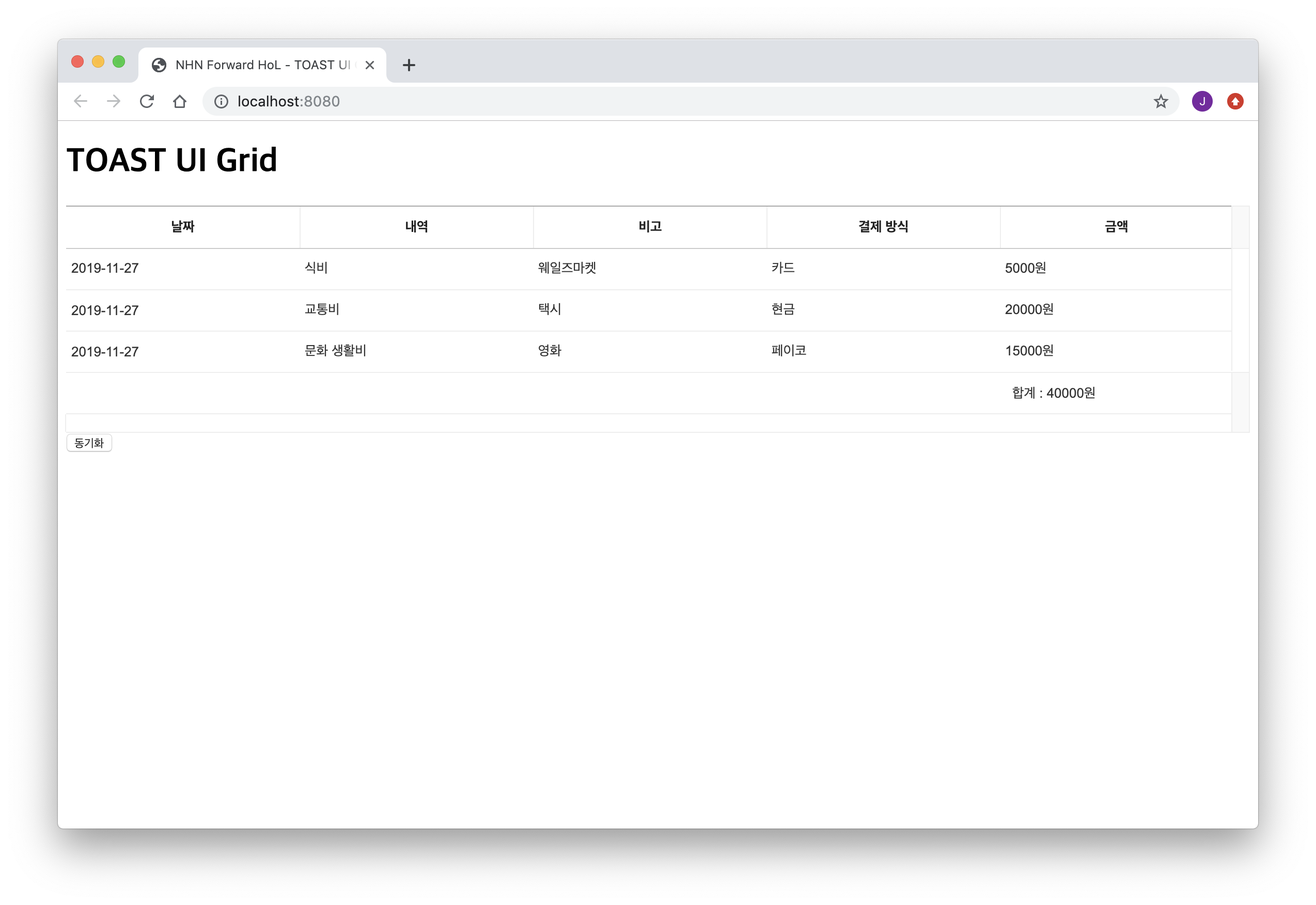
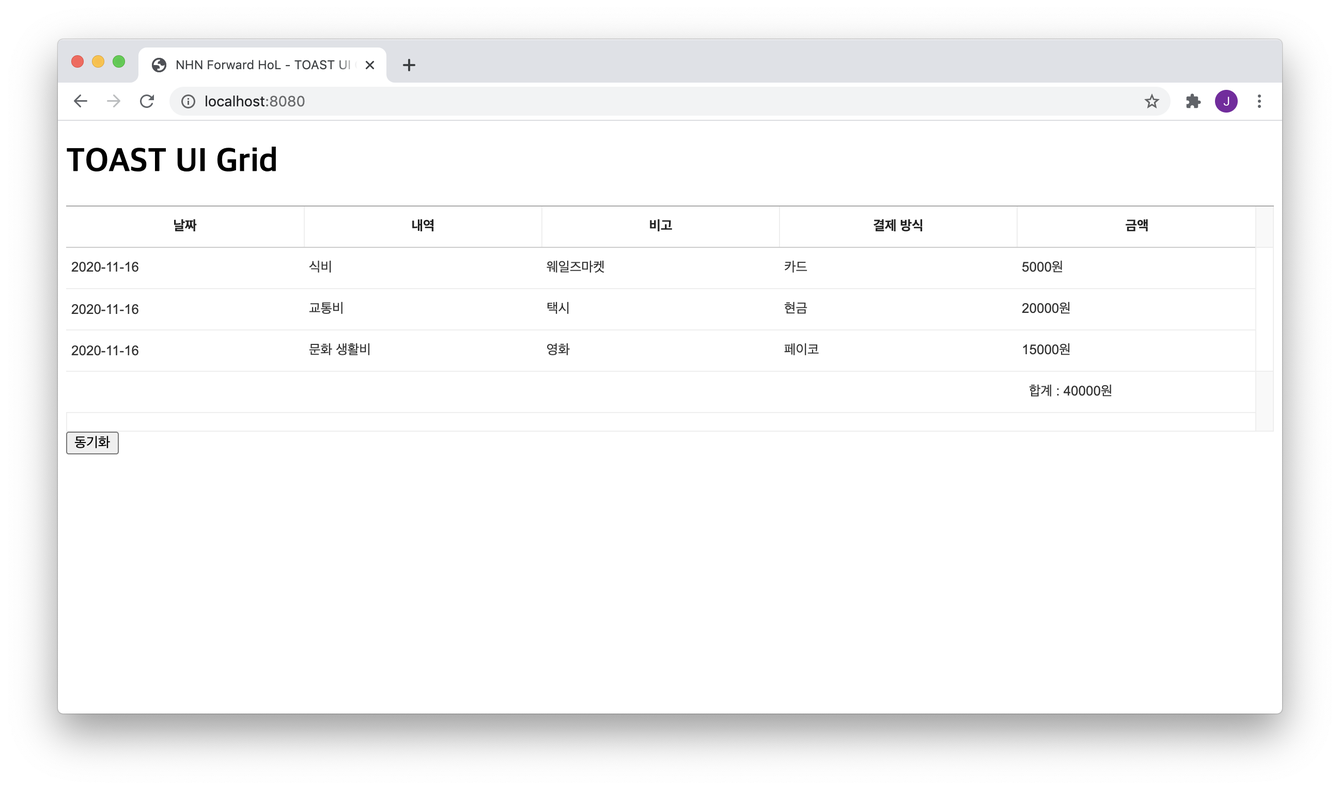
chore: update contents

diff --git a/searchindex.js b/searchindex.js
@@ -1,1 +1,1 @@
-Search.setIndex({docnames:["01","02","03","04","05","06","07","08","index","wrap-up"],envversion:{"sphinx.domains.c":1,"sphinx.domains.changeset":1,"sphinx.domains.cpp":1,"sphinx.domains.javascript":1,"sphinx.domains.math":2,"sphinx.domains.python":1,"sphinx.domains.rst":1,"sphinx.domains.std":1,sphinx:54},filenames:["01.rst","02.rst","03.rst","04.rst","05.rst","06.rst","07.rst","08.rst","index.rst","wrap-up.rst"],objects:{},objnames:{},objtypes:{},terms:{"15\ubd84":8,"3\uac1c\uc758":6,"\uac00\uacc4\ubd80":[0,7],"\uac00\uacc4\ubd80\ub97c":3,"\uac00\uacc4\ubd80\uc5d0":3,"\uac00\uacc4\ubd80\uc5d0\uc11c\ub294":4,"\uac00\uacc4\ubd80\uc758":3,"\uac00\uc7a5":4,"\uac00\uc838\uc624\ub294":[4,6],"\uac00\uc838\uc640":6,"\uac00\uc838\uc640\uc11c":7,"\uac00\uc9c0":[4,7],"\uac00\uc9c4":4,"\uac01":[4,5],"\uac04\ub2e8\ud55c":3,"\uac04\ub2e8\ud569\ub2c8\ub2e4":6,"\uac04\ub2e8\ud788":1,"\uac12":4,"\uac12\uc5d0":5,"\uac12\uc73c\ub85c":4,"\uac12\uc740":5,"\uac12\uc744":[3,4],"\uac12\uc758":4,"\uac19\uc2b5\ub2c8\ub2e4":4,"\uac19\uc740":4,"\uac19\uc774":[0,1,3,4,6,7],"\uac1c\ubc1c":[2,6],"\uac1c\ubc1c\uc790":6,"\uac1c\ubc1c\ud558\uae30":9,"\uac1c\ubc1c\ud55c":0,"\uac1c\uc694":8,"\uac1c\uc758":4,"\uac1d\uccb4":4,"\uac1d\uccb4\uc5d0":4,"\uac1d\uccb4\uc785\ub2c8\ub2e4":5,"\uac83\uacfc":[6,7],"\uac83\uc744":7,"\uacb0\uacfc\ub294":1,"\uacb0\uacfc\ub97c":[5,7],"\uacb0\uc815\ud558\ub294":5,"\uacb0\uc81c":[3,4],"\uacbd\uc6b0":[4,5,7],"\uacbd\ud5d8\ud574\ubcf4\uace0":0,"\uacfc":4,"\uacfc\uc815\uc744":6,"\uad00\ub9ac\ube44":4,"\uad50\ud1b5\ube44":4,"\uad6c\ud604\ud560":6,"\uad6c\ud604\ud574\ubd05\ub2c8\ub2e4":[6,7],"\uadf8\ub9ac\uace0":4,"\uadf8\ub9ac\ub4dc":[3,5,6,8],"\uadf8\ub9ac\ub4dc\uac00":2,"\uadf8\ub9ac\ub4dc\ub97c":[3,6],"\uadf8\ub9ac\ub4dc\uc5d0\uc11c":[4,6,7],"\uadf8\ub9ac\ub4dc\uc5d0\uc11c\ub294":[4,7],"\uadf8\ub9ac\ub4dc\uc758":[4,6],"\uae08\uc561":[3,4,5],"\uae30\ub2a5\ub4e4\uc744":3,"\uae30\ub2a5\ub9cc":4,"\uae30\ub2a5\uc744":4,"\uae30\ubcf8":[2,5,8],"\uae30\ubcf8\uac12\uc740":5,"\uae30\ubcf8\uc801\uc778":4,"\ub098\ud0c0\ub098\uc9c0":5,"\ub0a0\uc9dc":[3,4],"\ub0a0\uc9dc\ub97c":4,"\ub0a0\uc9dc\uc758":4,"\ub0b4\ubd80":4,"\ub0b4\ubd80\uc5d0":2,"\ub0b4\ubd80\uc5d0\uc11c\ub294":6,"\ub0b4\uc5d0\uc11c":[4,6],"\ub0b4\uc5ed":[3,4],"\ub0b4\uc6a9\uc744":5,"\ub0b4\uc7a5":4,"\ub118\uaca8\uc8fc\uc5b4\uc57c":2,"\ub124\ud2b8\uc6cc\ud06c":6,"\ub192\uc774\ub97c":5,"\ub294":6,"\ub2e4\ub974\uac8c":4,"\ub2e4\ub978":4,"\ub2e4\uc2dc":3,"\ub2e4\uc591\ud55c":[0,8],"\ub2e4\uc74c":[2,6,7],"\ub2e4\uc74c\uacfc":[4,6,7],"\ub2e8\uc704\ub97c":5,"\ub2f4\uc544":4,"\ub300\uc0c1":5,"\ub300\uc2dc\ubcf4\ub4dc":9,"\ub300\uc2e0":6,"\ub300\ud55c":[5,6],"\ub300\ud574":5,"\ub354":[2,5,6],"\ub370\uc774\ud130":[2,4,5,6],"\ub370\uc774\ud130\uac00":[4,7],"\ub370\uc774\ud130\uac12\uc774":7,"\ub370\uc774\ud130\ub294":4,"\ub370\uc774\ud130\ub97c":[0,3,4,6,7],"\ub370\uc774\ud130\ub9cc":6,"\ub370\uc774\ud130\uc5d0":6,"\ub370\uc774\ud130\uc758":5,"\ub3c4\uad6c":6,"\ub3c4\uc640\uc8fc\ub294":6,"\ub3cc\uc544\uc640":7,"\ub3d9\uae30\ud654":7,"\ub3d9\uc77c\ud558\uac8c":7,"\ub3d9\uc791":[6,7],"\ub3d9\uc791\uc740":7,"\ub3d9\uc791\uc744":[6,7],"\ub3d9\uc791\uc758":7,"\ub3d9\uc791\ud558\uc600\ub2e4\uba74":6,"\ub420":4,"\ub429\ub2c8\ub2e4":[4,6,7],"\ub450\uc5c8\uc2b5\ub2c8\ub2e4":1,"\ub4e4\uc5b4":4,"\ub4e4\uc5b4\uac00\ub294":4,"\ub4e4\uc5b4\uac08":3,"\ub4f1":5,"\ub54c":[3,4,5,7],"\ub54c\uc640":7,"\ub610\ud55c":4,"\ub744\uc6cc":4,"\ub77c\ub294":4,"\ub77c\uc774\ube0c\ub7ec\ub9ac\uc785\ub2c8\ub2e4":0,"\ub7a9\uc2a4\uc5d0\uc11c":0,"\ub808\ubca8":8,"\ub808\uc774\ube14\ub85c":4,"\ub808\uc774\uc544\uc6c3":8,"\ub808\uc774\uc544\uc6c3\uc5d0":5,"\ub808\uc774\uc544\uc6c3\uc744":3,"\ub808\uc774\uc5b4\ub97c":4,"\ub80c\ub354\ub9c1\ud560":5,"\ub85c":[3,4],"\ub85c\ub4dc\ud558\uba74":6,"\ub85c\uceec":6,"\ub85c\uceec\uc5d0\uc11c":6,"\ub97c":[1,6,7],"\ub9ac\uc2a4\ud2b8\uc758":4,"\ub9ac\ud504\ub808\uc2dc\ub429\ub2c8\ub2e4":2,"\ub9ac\ud504\ub808\uc2dc\ud558\uba74":7,"\ub9c1\ud06c":2,"\ub9c8\uc2a4\ud130\ud558\uc600\uc2b5\ub2c8\ub2e4":9,"\ub9cc\ub4e4\uae30":[0,9],"\ub9cc\ub4e4\uc5b4\ubcf4\uaca0\uc2b5\ub2c8\ub2e4":3,"\ub9cc\ub4e4\uc5b4\ubd05\ub2c8\ub2e4":3,"\ub9ce\uc740":2,"\ub9e4\ud551\uc744":4,"\uba3c\uc800":[3,6,7],"\uba54\uc2dc\uc9c0\uac00":6,"\uba85\ub839\uc5b4\ub97c":6,"\ubaa8\ub450":9,"\ubaa8\ub4c8\uc744":6,"\ubaa8\ub4c8\uc785\ub2c8\ub2e4":6,"\ubaa8\ub4dc":8,"\ubaa8\ub4dc\ub294":4,"\ubaa8\ub4dc\ub97c":4,"\ubaa8\ub4e0":1,"\ubaa9\ub85d\uc744":4,"\ubb38\uc790\uc5f4\uc740":5,"\ubb38\uc790\uc5f4\uc744":5,"\ubb38\ud654":4,"\ubbf8\ub9ac":1,"\ubc0f":[6,8],"\ubc14\uc778\ub529\ud558\uace0":7,"\ubc14\ud0d5\uc73c\ub85c":3,"\ubc15\uc2a4\uc758":4,"\ubc18\ub4dc\uc2dc":[2,4],"\ubc18\ud658\ud558\uba70":5,"\ubc1b\uc2b5\ub2c8\ub2e4":1,"\ubc1c\uc0dd":7,"\ubc29\ubc95\uc740":6,"\ubc29\ubc95\uc744":9,"\ubc29\uc2dd":[3,4],"\ubc30\uc5f4\uc5d0":4,"\ubc30\uc5f4\uc5d0\uc11c":3,"\ubc84\ud2bc\uc5d0":7,"\ubc84\ud2bc\uc744":7,"\ubc88\ub4e4\ub7ec\ub294":1,"\ubcc0\uacbd":[3,4,6],"\ubcc0\uacbd\ub41c":7,"\ubcc0\uacbd\ud558\uace0":5,"\ubcc0\uacbd\ud558\uae30":8,"\ubcc0\uacbd\ud558\uba74":6,"\ubcc0\uacbd\ud55c":7,"\ubcc0\uacbd\ud560":5,"\ubcc0\uacbd\ud569\ub2c8\ub2e4":[3,6],"\ubcc0\uacbd\ud574\ubcf4\uaca0\uc2b5\ub2c8\ub2e4":4,"\ubcc0\uacbd\ud574\ubd05\ub2c8\ub2e4":4,"\ubcc0\uacbd\ud574\uc57c":4,"\ubcc0\uc218\uc5d0":3,"\ubcf4\uae30":2,"\ubcf4\uc138\uc694":0,"\ubcf4\uc558\uc2b5\ub2c8\ub2e4":6,"\ubd80\uac00":5,"\ube0c\ub77c\uc6b0\uc800":0,"\ube0c\ub77c\uc6b0\uc800\ub294":2,"\ube0c\ub77c\uc6b0\uc800\ub85c":1,"\ube0c\ub77c\uc6b0\uc800\ub97c":7,"\ube0c\ub77c\uc6b0\uc800\uc5d0\uc11c":2,"\ube44\uace0":[3,4],"\ube44\uc6a9":8,"\ube48":3,"\uc0ac\uc6a9\ub41c":3,"\uc0ac\uc6a9\ub429\ub2c8\ub2e4":5,"\uc0ac\uc6a9\ud558\uace0":[1,4],"\uc0ac\uc6a9\ud558\ub294":[4,9],"\uc0ac\uc6a9\ud558\ub3c4\ub85d":6,"\uc0ac\uc6a9\ud558\uba74":0,"\uc0ac\uc6a9\ud558\uba74\uc11c":4,"\uc0ac\uc6a9\ud558\ubbc0\ub85c":6,"\uc0ac\uc6a9\ud558\uc5ec":[1,4,7],"\uc0ac\uc6a9\ud55c":0,"\uc0ac\uc6a9\ud560":7,"\uc0ac\uc6a9\ud569\ub2c8\ub2e4":[4,6],"\uc0ac\uc6a9\ud574":[4,6,9],"\uc0ac\uc6a9\ud574\ubcf4\uc558\uc2b5\ub2c8\ub2e4":4,"\uc0ac\ud56d\uc774":4,"\uc0ad\uc81c":7,"\uc0b4\ud3b4\ubcf4\uc558\ub358":3,"\uc0c1\ub2e8\uc5d0\uc11c":4,"\uc0c1\ud0dc\ub294":6,"\uc0c8\ub85c":6,"\uc0dd\uc131":[2,3],"\uc0dd\uc131\ub418\ub294":2,"\uc0dd\uc131\ub418\uc5c8\ub294\uc9c0":2,"\uc0dd\uc131\ub429\ub2c8\ub2e4":6,"\uc0dd\uc131\ud558\uace0":[6,9],"\uc0dd\uc131\ud558\uae30":8,"\uc0dd\uc131\ud558\ub294":2,"\uc0dd\uc131\ud560":3,"\uc0dd\uc131\ud569\ub2c8\ub2e4":3,"\uc0dd\uc131\ud574\ubd05\ub2c8\ub2e4":[2,3],"\uc0dd\ud65c\ube44":4,"\uc11c\ubc84":8,"\uc11c\ubc84\uac00":6,"\uc11c\ubc84\ub294":6,"\uc11c\ubc84\ub97c":[1,6],"\uc11c\ubc84\uc5d0":2,"\uc11c\ubc84\uc5d0\uc11c":[1,7],"\uc11c\ubc84\uc640":[6,9],"\uc11c\ubc84\uce21":6,"\uc11c\ube44\uc2a4\uc5d0":0,"\uc11c\uc2dd":8,"\uc120\ud0dd":4,"\uc120\ud0dd\ub418\uc5c8\uc744":4,"\uc120\ud0dd\ud558\ub824\uace0":4,"\uc120\ud0dd\ud558\ub824\ub294":4,"\uc120\ud0dd\ud560":4,"\uc124\uc815":[2,4],"\uc124\uc815\ub41c":[4,5,6,7],"\uc124\uc815\uc744":[5,6],"\uc124\uc815\ud558\uc5ec":[4,7],"\uc124\uc815\ud55c":[5,6,7],"\uc124\uc815\ud560":6,"\uc124\uc815\ud569\ub2c8\ub2e4":[4,5,6,7],"\uc124\uc815\ud574":1,"\uc124\uc815\ud574\uc57c\ud569\ub2c8\ub2e4":4,"\uc124\uce58":8,"\uc124\uce58\ud569\ub2c8\ub2e4":1,"\uc138":7,"\uc140":4,"\uc140\uc774":7,"\uc18d\uc131\uc5d0":4,"\uc18d\uc131\uc744":[4,5],"\uc18d\uc131\uc774":4,"\uc218":[0,4,5,6,7],"\uc218\ub3c4":6,"\uc218\uc815":7,"\uc218\uc815\ub418\uc5c8\uc744":7,"\uc218\uc815\ub41c":7,"\uc218\uc815\ud558\ub294":7,"\uc218\uc815\ud558\uba74":2,"\uc218\uc815\ud55c":7,"\uc218\uc815\ud560":4,"\uc21c\uc11c\ub300\ub85c":4,"\uc2a4\ud0c0\uc77c":4,"\uc2a4\ud0c0\uc77c\uc744":4,"\uc2dc":7,"\uc2dc\uac04":8,"\uc2dc\uac04\ud45c":9,"\uc2dd\ube44":[3,4],"\uc2e4\uc2b5\ud558\ub294":1,"\uc2e4\uc81c":6,"\uc2e4\ud589\ub418\uace0":6,"\uc2e4\ud589\ud558\uace0":1,"\uc2e4\ud589\ud558\uae30":8,"\uc2e4\ud589\ud569\ub2c8\ub2e4":6,"\uc2e4\ud589\ud574\ubd05\ub2c8\ub2e4":6,"\uc2e4\ud589\ud588\ub358":6,"\uc2ec\ud654":8,"\uc2f6\ub2e4\uba74":[4,5],"\uc368\uba38\ub9ac":5,"\uc544\ub798":4,"\uc544\ub798\uc5d0":[2,5],"\uc544\ub798\uc640":[1,3,6],"\uc544\uc8fc":6,"\uc548\ud568":4,"\uc54a\uc2b5\ub2c8\ub2e4":5,"\uc54a\uc740":5,"\uc54c\uace0":5,"\uc55e\uc11c":7,"\uc55e\uc5d0\uc11c":3,"\uc55e\uc73c\ub85c":[1,3],"\uc561\uc140\uacfc":0,"\uc5b4\ub5a4":7,"\uc5c5\ub370\uc774\ud2b8\ud569\ub2c8\ub2e4":7,"\uc5d0":[1,4,7],"\uc5d0\ub514\ud130\ub97c":4,"\uc5d8\ub9ac\uba3c\ud2b8":2,"\uc5ec\uae30\uc11c":4,"\uc5ec\ub7ec":4,"\uc5f0\ub3d9":6,"\uc5f0\ub3d9\uc744":6,"\uc5f0\ub3d9\ud558\uae30":8,"\uc5f0\ub3d9\ud558\uc5ec":6,"\uc5f0\uc0b0":5,"\uc5f4\uace0":[2,6],"\uc5f4\uc5b4":[1,2],"\uc601\uc5ed\uc740":5,"\uc601\uc5ed\uc758":5,"\uc608\ub97c":4,"\uc608\uc81c\uc5d0\uc11c\ub294":7,"\uc624\ud508\uc18c\uc2a4":0,"\uc628":7,"\uc635\uc158":[2,6],"\uc635\uc158\ub4e4\uc744":6,"\uc635\uc158\uc5d0":[5,6,7],"\uc635\uc158\uc73c\ub85c":6,"\uc635\uc158\uc744":[2,4,5],"\uc635\uc158\uc758":3,"\uc635\uc158\uc785\ub2c8\ub2e4":5,"\uc640":5,"\uc644\uc131\ud574\ubd05\ub2c8\ub2e4":7,"\uc678":4,"\uc678\ubd80":6,"\uc694\uccad\uacfc":6,"\uc694\uccad\uc774":6,"\uc6d0":5,"\uc704\uc5d0\uc11c":7,"\uc704\uce58\ub97c":5,"\uc704\uce58\uc5d0\uc11c":6,"\uc704\uce58\ud569\ub2c8\ub2e4":5,"\uc704\ud574":[4,6,7],"\uc704\ud574\uc11c\ub294":4,"\uc720\ud29c\ube0c":9,"\uc73c\ub85c":[1,5,6],"\uc744":[1,4,5,6,7],"\uc751\ub2f5\uc774":6,"\uc758":4,"\uc774":[1,4,5,6,7],"\uc774\ub3d9\ud55c":1,"\uc774\ub54c":[2,4],"\uc774\ub984":5,"\uc774\ubc88":[0,7],"\uc774\ubca4\ud2b8":7,"\uc774\ubca4\ud2b8\ub97c":7,"\uc774\uc6a9\ud574":[3,9],"\uc774\uc804\uc5d0":3,"\uc774\uc81c":6,"\uc774\ud574\ud588\uc2b5\ub2c8\ub2e4":9,"\uc774\ud6c4\uc5d0":7,"\uc775\uc219\ud55c":0,"\uc775\uc2a4\ud150\uc158":9,"\uc778\uc2a4\ud134\uc2a4":2,"\uc778\uc2a4\ud134\uc2a4\ub97c":[2,3],"\uc778\ud48b\uacfc\ub294":4,"\uc778\ud48b\uc744":4,"\uc778\ud48b\uc774":4,"\uc77c\ubc18\uc801\uc73c\ub85c":4,"\uc77c\uc5b4\ub09c":6,"\uc77c\uce58\ud574\uc57c":4,"\uc77d\uae30":7,"\uc77d\uc5b4\uc624\ub294":6,"\uc77d\uc5b4\uc62c":7,"\uc785\ub2c8\ub2e4":4,"\uc788\ub294":[4,5,7],"\uc788\ub3c4\ub85d":[4,5,6,7],"\uc788\uc2b5\ub2c8\ub2e4":[0,4,5,6,7],"\uc788\uc5b4\uc57c":4,"\uc788\uc9c0\ub9cc":6,"\uc790\ub3d9\uc73c\ub85c":2,"\uc790\ubc14\uc2a4\ud06c\ub9bd\ud2b8":0,"\uc790\uc138\ud788":5,"\uc791\uc131\ud55c":[3,7],"\uc791\uc131\ud569\ub2c8\ub2e4":3,"\uc791\uc131\ud574":2,"\uc791\uc5c5\uc744":6,"\uc798":6,"\uc7a5\uc5d0\uc11c\ub294":7,"\uc801\uc6a9":4,"\uc801\uc6a9\ud574":0,"\uc801\uc6a9\ud574\ubcf4\uaca0\uc2b5\ub2c8\ub2e4":4,"\uc804\uccb4":5,"\uc810\uc740":4,"\uc810\uc785\ub2c8\ub2e4":4,"\uc811\uc18d\ud55c":2,"\uc811\uc18d\ud569\ub2c8\ub2e4":1,"\uc815\ub9ac":8,"\uc815\ubcf4":[2,6],"\uc815\ubcf4\uac00":5,"\uc815\ubcf4\ub4e4\uc744":5,"\uc815\ubcf4\ub97c":[3,5,7],"\uc815\ubcf4\uc5d0":4,"\uc815\uc0c1\uc801\uc73c\ub85c":6,"\uc81c\uac70":6,"\uc81c\uacf5\ub429\ub2c8\ub2e4":1,"\uc81c\uacf5\ud558\ub294":[4,6],"\uc81c\uacf5\ud569\ub2c8\ub2e4":4,"\uc81c\uc678\ud55c":4,"\uc880":6,"\uc885\ub8cc\ub97c":7,"\uc8fc\uc758\ud560":4,"\uc900\ube44\ub41c":[1,2],"\uc90d\ub2c8\ub2e4":2,"\uc911":4,"\uc911\uc5d0\uc11c":4,"\uc911\uc694\ud55c":4,"\uc911\uc778":7,"\uc9c0\uae08\uae4c\uc9c0":6,"\uc9c0\uae08\uae4c\uc9c0\ub294":4,"\uc9c0\uae08\ubd80\ud130":3,"\uc9c0\uae08\ubd80\ud130\ub294":6,"\uc9c0\uc6b0\uace0":3,"\uc9c0\uc815":2,"\uc9c0\uc815\ud558\uba70":5,"\uc9c0\uc815\ud558\uc9c0":5,"\uc9c0\uc815\ud560":4,"\uc9c0\ucd9c":8,"\uc9c1\uc811":[0,6],"\ucc28\ud2b8":9,"\ucc38\uace0":6,"\ucc38\uace0\ud558\uc5ec":4,"\ucc38\uace0\ud574\uc8fc\uc138\uc694":5,"\ucc98\ub9ac\ub429\ub2c8\ub2e4":6,"\ucc98\ub9ac\ud558\uae30":6,"\ucc98\ub9ac\ud560":[6,7],"\ucc98\ub9ac\ud574\ubcf4\uaca0\uc2b5\ub2c8\ub2e4":6,"\ucc98\ub9ac\ud574\ubd05\ub2c8\ub2e4":7,"\ucc98\ub9ac\ud588\ub358":7,"\uccb4\ud06c\ubc15\uc2a4\ub97c":4,"\uccb4\ud06c\ubc15\uc2a4\uc758":4,"\uccb4\ud06c\ubc15\uc2a4\ucc98\ub7fc":4,"\ucd08\uae09":8,"\ucd08\uae30\uc5d0":5,"\ucd08\uae30\ud654\ud558\ub358":6,"\ucd08\uae30\ud654\ud569\ub2c8\ub2e4":4,"\ucd1d\ud569":5,"\ucd5c\ub313\uac12":5,"\ucd5c\uc19f\uac12":5,"\ucd94\uac00":[4,5,7],"\ucd94\uac00\ub420":3,"\ucd94\uac00\ud558\uac70\ub098":5,"\ucd94\uac00\ud558\uace0":4,"\ucd94\uac00\ud569\ub2c8\ub2e4":7,"\ucd94\uac00\ud574":3,"\ucd94\uac00\ud574\ubd05\ub2c8\ub2e4":[2,4,5,7],"\ucd94\uac00\ud574\uc57c":4,"\ucd94\uac00\ud574\uc90d\ub2c8\ub2e4":4,"\ucd95\ud558\ud569\ub2c8\ub2e4":9,"\ucd9c\ub825":5,"\ucd9c\ub825\ub418\ub294":7,"\ucd9c\ub825\ub418\uba70":5,"\ucd9c\ub825\ub418\uba74":6,"\ucd9c\ub825\ud558\ub294":4,"\ucd9c\ub825\ud560":[5,7],"\ucd9c\ub825\ud574\uc904":5,"\uce74\ub4dc":4,"\uce74\ud14c\uace0\ub9ac":[4,8],"\uce74\ud14c\uace0\ub9ac\ubcc4\ub85c":4,"\uce74\ud14c\uace0\ub9ac\uc5d0\uc11c":4,"\ucee4\uc2a4\ud140":7,"\ucee8\ud14c\uc774\ub108":2,"\uceec\ub7fc":[2,4,5],"\uceec\ub7fc\uc758":[4,5],"\ucef4\ud3ec\ub10c\ud2b8\ub97c":4,"\ucf54\ub4dc":4,"\ucf54\ub4dc\ub294":3,"\ucf54\ub4dc\ub97c":[2,3,6],"\ud06c\ub86c":0,"\ud074\ub860":1,"\ud074\ub9ad":7,"\ud074\ub9ad\ud558\uba74":7,"\ud074\ub9ad\ud574":7,"\ud0a4\ub294":5,"\ud0c0\uc785\uc73c\ub85c":4,"\ud0c0\uc785\uc740":4,"\ud0c0\uc785\uc758":4,"\ud0dc\uadf8":[2,5],"\ud0dc\uadf8\ub97c":[2,7],"\ud0ed\uc5d0\uc11c":6,"\ud130\ubbf8\ub110\uc744":[1,6],"\ud14c\uc774\ube14":5,"\ud14c\uc774\ube14\uc5d0\uc11c":5,"\ud14d\uc2a4\ud2b8\ub85c":4,"\ud1b5\uc2e0\ud558\ub294":9,"\ud1b5\ud574":[5,6],"\ud29c\ud1a0\ub9ac\uc5bc":[4,5,6],"\ud30c\ub77c\ubbf8\ud130\ub85c":2,"\ud30c\uc77c":4,"\ud30c\uc77c\ub85c":7,"\ud30c\uc77c\uc5d0":[3,7],"\ud30c\uc77c\uc744":2,"\ud328\ud0a4\uc9c0\uc640":1,"\ud398\uc774\uc9c0\ub97c":6,"\ud398\uc774\ucf54":[3,4],"\ud3b8\uc758\uc810":[3,4],"\ud3b8\uc9d1":[7,8],"\ud3b8\uc9d1\uae30":0,"\ud3b8\uc9d1\ud560":0,"\ud3b8\ud558\uac8c":6,"\ud3c9\uade0":5,"\ud3ec\ub9e4\ud130":4,"\ud3ec\ub9f7\uc744":4,"\ud3ec\ud568\ud558\ub294":5,"\ud3f4\ub354":6,"\ud3f4\ub354\ub85c":1,"\ud3f4\ub354\uc758":3,"\ud45c\ud604\ud558\uace0":0,"\ud504\ub85c\uc81d\ud2b8":[3,6],"\ud504\ub85c\uc81d\ud2b8\ub97c":1,"\ud53c\ucee4\uc758":4,"\ud544\uc694\ub85c":4,"\ud558\ub098\uc640":4,"\ud558\ub294":4,"\ud558\ub2e8\uc5d0":5,"\ud558\uba74":4,"\ud558\ubbc0\ub85c":4,"\ud55c":4,"\ud560":4,"\ud568\uc218\ub294":5,"\ud568\uc218\ub97c":[5,7],"\ud568\uc218\ud615":5,"\ud569\uacc4":5,"\ud569\ub2c8\ub2e4":[2,4],"\ud574\ub2f9":[5,6],"\ud574\ub2f9\ud558\ub294":4,"\ud578\ub4e4\ub7ec":7,"\ud578\uc988\uc628":0,"\ud589":7,"\ud589\uc5d0":5,"\ud589\uc758":[5,6],"\ud5e4\ub354":5,"\ud604\uae08":4,"\ud615\uc2dd\uc744":[4,5],"\ud615\ud0dc\ub85c":[0,4],"\ud638\ucd9c\ub418\ub294":7,"\ud638\ucd9c\ub429\ub2c8\ub2e4":6,"\ud638\ucd9c\ud558\uac8c":7,"\ud638\ucd9c\ud558\ub294":[2,7],"\ud638\ucd9c\ud558\uba74":7,"\ud638\ucd9c\ud558\uc5ec":6,"\ud638\ucd9c\ud560":[6,7],"\ud638\ucd9c\ud569\ub2c8\ub2e4":[6,7],"\ud638\ucd9c\ud574":6,"\ud654\uba74\uc5d0":5,"\ud655\uc778\ud560":[6,7],"\ud655\uc778\ud569\ub2c8\ub2e4":[1,2],"\ud65c\uc131\ud654\ud558\uace0":6,"\ud65c\uc131\ud654\ud558\uae30":8,"\ud65c\uc131\ud654\ud558\ub294":6,"\ud65c\uc131\ud654\ud558\uba70":6,"\ud65c\uc131\ud654\ud574\ubd05\ub2c8\ub2e4":4,"\ud68c\uc0ac":[3,4],"\ud6c4":[1,7],"api\ub85c":7,"api\ub97c":[2,6,7],"api\uc758":6,"calendar\ub85c":9,"chart\ub97c":9,"const":[2,3,4,5,6,7],"datasource\ub85c":6,"datasource\ub97c":[6,7,9],"datasource\uc758":7,"fe\uac1c\ubc1c\ub7a9\uc5d0\uc11c":0,"function":7,"grid\ub294":[0,1],"grid\ub97c":[0,1,9],"import":[2,3,4],"method\ub97c":6,"new":[2,3,5,6],"return":5,"url\uacfc":6,"url\uc740":6,"url\uc744":7,Lies:2,account:[1,6],addeventlisten:7,amount:[3,4,5],api:2,appendrow:2,artist:2,beauti:2,birdi:2,bodi:2,book:[1,6],bottom:5,button:7,category1:[3,4],category2:[3,4],checkbox:4,checkedonli:7,click:7,clone:1,coldplai:2,column:[2,3],columncont:5,columndata:[3,4,5],columnnam:7,com:1,consol:7,creat:7,crud:6,css:[2,3,4],data:[2,3,5,6,7],datasourc:7,date:[3,4],datepick:4,delet:7,dev:1,dist:[2,3,4],div:2,document:[2,3,7],dream:2,editor:[4,5,9],express:6,fals:7,finishedit:7,foreach:2,format:4,formatt:4,from:[2,3],full:2,genr:2,get:[6,7],getelementbyid:[2,3,7],getfocusedcel:7,git:1,github:[0,1],grid:[2,3,5,6,7,8],hand:[1,6],head:2,header:[2,3,4,5],height:5,html:[5,7],http:[1,6,7],index:[2,3,7],instal:1,javascript:8,json:7,lab:[1,6],listitem:4,listitemtext:4,localhost:[1,6,7],log:7,method:[6,7],name:[2,3,4,5],nhn:1,node:0,npm:[1,6],option:[2,4],pars:7,payment:[3,4],picker:4,pop:2,posit:5,put:7,read:6,readdata:[6,7],releas:2,request:7,respons:7,responseobj:7,result:7,rock:2,row:2,rowdata:[2,3,4,5,6],rowkei:7,run:[1,6],select:4,serv:1,server:1,sheeran:2,src:[2,3,7],sum:5,sync:7,syncserv:7,templat:5,text:[4,5],toast:[0,4,9],toastui:[1,6],top:5,tui:[1,2,3,4],type:4,updat:7,updatedata:7,url:[6,7],valu:[4,5],valuemap:5,webpack:1,xhr:7,yyyi:4},titles:["1. \uac1c\uc694","2. TOAST UI Grid \uc124\uce58 \ubc0f \uc11c\ubc84 \uc2e4\ud589\ud558\uae30","3. \uadf8\ub9ac\ub4dc \uc0dd\uc131\ud558\uae30","4. \uac00\uacc4\ubd80 \ub808\uc774\uc544\uc6c3 \ub9cc\ub4e4\uae30","5. \ub2e4\uc591\ud55c \ud3b8\uc9d1 \ubaa8\ub4dc \ud65c\uc131\ud654\ud558\uae30","6. \uc9c0\ucd9c \ube44\uc6a9 \uc11c\uc2dd \ubcc0\uacbd\ud558\uae30","7. \uc11c\ubc84 \uc5f0\ub3d9\ud558\uae30 (\uae30\ubcf8)","8. \uc11c\ubc84 \uc5f0\ub3d9\ud558\uae30 (\uc2ec\ud654)","TOAST UI Grid\ub85c \uac00\uacc4\ubd80 \ub9cc\ub4e4\uae30","9. \uc815\ub9ac"],titleterms:{"\uac00\uacc4\ubd80":[3,8],"\uac1c\ubc1c":1,"\uac1c\uc694":0,"\uacb0\uacfc":[2,3,4,5,6,7],"\uadf8\ub9ac\ub4dc":2,"\uae30\ubcf8":[3,6],"\ub0b4\uc6a9":[0,9],"\ub2e4\uc591\ud55c":4,"\ub2e4\uc74c":9,"\ub2e8\uacc4":9,"\ub370\uc774\ud130":3,"\ub370\uc774\ud2b8":4,"\ub808\uc774\uc544\uc6c3":3,"\ub9cc\ub4e4\uae30":[3,8],"\ubaa8\ub4dc":4,"\ubc0f":1,"\ubc15\uc2a4":4,"\ubc84\ud2bc":7,"\ubcc0\uacbd\ud558\uae30":5,"\ube44\uc6a9":5,"\uc0ac\uc6a9\ud558\uae30":[4,6],"\uc0dd\uc131\ud558\uae30":2,"\uc11c\ubc84":[1,6,7],"\uc11c\uc2dd":5,"\uc124\uc815\ud558\uae30":[3,5,6],"\uc124\uce58":1,"\uc140\ub809\ud2b8":4,"\uc18c\uc2a4":0,"\uc2e4\ud589":1,"\uc2e4\ud589\ud558\uae30":1,"\uc2ec\ud654":7,"\uc5d0\ub514\ud130":4,"\uc5f0\ub3d9\ud558\uae30":[6,7],"\uc635\uc158":[4,5],"\uc694\uccad":6,"\uc694\uccad\ud558\uae30":7,"\uc751\ub2f5":[6,7],"\uc778\ud48b":4,"\uc790\ubc14\uc2a4\ud06c\ub9bd\ud2b8":2,"\uc791\uc131":2,"\uc815\ub9ac":9,"\uc900\ube44\ubb3c":0,"\uc9c0\ucd9c":5,"\ucc98\ub9ac\ud558\uae30":7,"\uccb4\ud06c\ubc15\uc2a4":4,"\ucd08\uae30":2,"\ucd94\uac00\ud558\uae30":7,"\uceec\ub7fc":3,"\ucf54\ub4dc":[0,2],"\ud14c\uc2a4\ud2b8\uc6a9":6,"\ud14d\uc2a4\ud2b8":4,"\ud3b8\uc9d1":4,"\ud504\ub85c\uc81d\ud2b8":1,"\ud53c\ucee4":4,"\ud559\uc2b5\ud55c":9,"\ud559\uc2b5\ud560":0,"\ud654\uba74":[2,3,4,5,6,7],"\ud655\uc778\ud558\uae30":6,"\ud65c\uc131\ud654\ud558\uae30":4,"grid\ub85c":8,api:[6,7],datasourc:6,formatt:5,grid:1,html:2,summari:5,toast:[1,8],udat:7}})
+Search.setIndex({docnames:["01","02","03","04","05","06","07","08","index","wrap-up"],envversion:{"sphinx.domains.c":1,"sphinx.domains.changeset":1,"sphinx.domains.cpp":1,"sphinx.domains.javascript":1,"sphinx.domains.math":2,"sphinx.domains.python":1,"sphinx.domains.rst":1,"sphinx.domains.std":1,sphinx:54},filenames:["01.rst","02.rst","03.rst","04.rst","05.rst","06.rst","07.rst","08.rst","index.rst","wrap-up.rst"],objects:{},objnames:{},objtypes:{},terms:{"15\ubd84":8,"3\uac1c\uc758":6,"\uac00\uacc4\ubd80":[0,7],"\uac00\uacc4\ubd80\ub97c":3,"\uac00\uacc4\ubd80\uc5d0":3,"\uac00\uacc4\ubd80\uc5d0\uc11c\ub294":4,"\uac00\uacc4\ubd80\uc758":3,"\uac00\uc7a5":4,"\uac00\uc838\uc624\ub294":[4,6],"\uac00\uc838\uc640":6,"\uac00\uc838\uc640\uc11c":7,"\uac00\uc9c0":[4,7],"\uac00\uc9c4":4,"\uac01":[4,5],"\uac04\ub2e8\ud55c":3,"\uac04\ub2e8\ud569\ub2c8\ub2e4":6,"\uac04\ub2e8\ud788":1,"\uac12":4,"\uac12\uc5d0":5,"\uac12\uc73c\ub85c":4,"\uac12\uc740":5,"\uac12\uc744":[3,4],"\uac12\uc758":4,"\uac19\uc2b5\ub2c8\ub2e4":4,"\uac19\uc740":4,"\uac19\uc774":[0,1,3,4,6,7],"\uac1c\ubc1c":[2,6],"\uac1c\ubc1c\uc790":6,"\uac1c\ubc1c\ud558\uae30":9,"\uac1c\ubc1c\ud55c":0,"\uac1c\uc694":8,"\uac1c\uc758":4,"\uac1d\uccb4":4,"\uac1d\uccb4\uc5d0":4,"\uac1d\uccb4\uc785\ub2c8\ub2e4":5,"\uac83\uacfc":[6,7],"\uac83\uc744":7,"\uacb0\uacfc\ub294":1,"\uacb0\uacfc\ub97c":[5,7],"\uacb0\uc815\ud558\ub294":5,"\uacb0\uc81c":[3,4],"\uacbd\uc6b0":[4,5,7],"\uacbd\ud5d8\ud574\ubcf4\uace0":0,"\uacfc":4,"\uacfc\uc815\uc744":6,"\uad00\ub9ac\ube44":4,"\uad50\ud1b5\ube44":4,"\uad6c\ud604\ud560":6,"\uad6c\ud604\ud574\ubd05\ub2c8\ub2e4":[6,7],"\uadf8\ub9ac\uace0":4,"\uadf8\ub9ac\ub4dc":[3,5,6,8],"\uadf8\ub9ac\ub4dc\uac00":2,"\uadf8\ub9ac\ub4dc\ub97c":[3,6],"\uadf8\ub9ac\ub4dc\uc5d0\uc11c":[4,6,7],"\uadf8\ub9ac\ub4dc\uc5d0\uc11c\ub294":[4,7],"\uadf8\ub9ac\ub4dc\uc758":[4,6],"\uae08\uc561":[3,4,5],"\uae30\ub2a5\ub4e4\uc744":3,"\uae30\ub2a5\ub9cc":4,"\uae30\ub2a5\uc744":4,"\uae30\ubcf8":[2,5,8],"\uae30\ubcf8\uac12\uc740":5,"\uae30\ubcf8\uc801\uc778":4,"\ub098\ud0c0\ub098\uc9c0":5,"\ub0a0\uc9dc":[3,4],"\ub0a0\uc9dc\ub97c":4,"\ub0a0\uc9dc\uc758":4,"\ub0b4\ubd80":4,"\ub0b4\ubd80\uc5d0":2,"\ub0b4\ubd80\uc5d0\uc11c\ub294":6,"\ub0b4\uc5d0\uc11c":[4,6],"\ub0b4\uc5ed":[3,4],"\ub0b4\uc6a9\uc744":5,"\ub0b4\uc7a5":4,"\ub118\uaca8\uc8fc\uc5b4\uc57c":2,"\ub124\ud2b8\uc6cc\ud06c":6,"\ub192\uc774\ub97c":5,"\ub294":6,"\ub2e4\ub974\uac8c":4,"\ub2e4\ub978":4,"\ub2e4\uc2dc":3,"\ub2e4\uc591\ud55c":[0,8],"\ub2e4\uc74c":[2,6,7],"\ub2e4\uc74c\uacfc":[4,6,7],"\ub2e8\uc704\ub97c":5,"\ub2f4\uc544":4,"\ub300\uc0c1":5,"\ub300\uc2dc\ubcf4\ub4dc":9,"\ub300\uc2e0":6,"\ub300\ud55c":[5,6],"\ub300\ud574":5,"\ub354":[2,5,6],"\ub370\uc774\ud130":[2,4,5,6],"\ub370\uc774\ud130\uac00":[4,7],"\ub370\uc774\ud130\uac12\uc774":7,"\ub370\uc774\ud130\ub294":4,"\ub370\uc774\ud130\ub97c":[0,3,4,6,7],"\ub370\uc774\ud130\ub9cc":6,"\ub370\uc774\ud130\uc5d0":6,"\ub370\uc774\ud130\uc758":5,"\ub3c4\uad6c":6,"\ub3c4\uc640\uc8fc\ub294":6,"\ub3cc\uc544\uc640":7,"\ub3d9\uae30\ud654":7,"\ub3d9\uc77c\ud558\uac8c":7,"\ub3d9\uc791":[6,7],"\ub3d9\uc791\uc740":7,"\ub3d9\uc791\uc744":[6,7],"\ub3d9\uc791\uc758":7,"\ub3d9\uc791\ud558\uc600\ub2e4\uba74":6,"\ub420":4,"\ub429\ub2c8\ub2e4":[4,6,7],"\ub450\uc5c8\uc2b5\ub2c8\ub2e4":1,"\ub4e4\uc5b4":4,"\ub4e4\uc5b4\uac00\ub294":4,"\ub4e4\uc5b4\uac08":3,"\ub4f1":5,"\ub54c":[3,4,5,7],"\ub54c\uc640":7,"\ub610\ud55c":4,"\ub744\uc6cc":4,"\ub77c\ub294":4,"\ub77c\uc774\ube0c\ub7ec\ub9ac\uc785\ub2c8\ub2e4":0,"\ub7a9\uc2a4\uc5d0\uc11c":0,"\ub808\ubca8":8,"\ub808\uc774\ube14\ub85c":4,"\ub808\uc774\uc544\uc6c3":8,"\ub808\uc774\uc544\uc6c3\uc5d0":5,"\ub808\uc774\uc544\uc6c3\uc744":3,"\ub808\uc774\uc5b4\ub97c":4,"\ub80c\ub354\ub9c1\ud560":5,"\ub85c":[3,4],"\ub85c\ub4dc\ud558\uba74":6,"\ub85c\uceec":6,"\ub85c\uceec\uc5d0\uc11c":6,"\ub97c":[1,6,7],"\ub9ac\uc2a4\ud2b8\uc758":4,"\ub9ac\ud504\ub808\uc2dc\ub429\ub2c8\ub2e4":2,"\ub9ac\ud504\ub808\uc2dc\ud558\uba74":7,"\ub9c1\ud06c":2,"\ub9c8\uc2a4\ud130\ud558\uc600\uc2b5\ub2c8\ub2e4":9,"\ub9cc\ub4e4\uae30":[0,9],"\ub9cc\ub4e4\uc5b4\ubcf4\uaca0\uc2b5\ub2c8\ub2e4":3,"\ub9cc\ub4e4\uc5b4\ubd05\ub2c8\ub2e4":3,"\ub9ce\uc740":2,"\ub9e4\ud551\uc744":4,"\uba3c\uc800":[3,6,7],"\uba54\uc2dc\uc9c0\uac00":6,"\uba85\ub839\uc5b4\ub97c":6,"\ubaa8\ub450":9,"\ubaa8\ub4c8\uc744":6,"\ubaa8\ub4c8\uc785\ub2c8\ub2e4":6,"\ubaa8\ub4dc":8,"\ubaa8\ub4dc\ub294":4,"\ubaa8\ub4dc\ub97c":4,"\ubaa8\ub4e0":1,"\ubaa9\ub85d\uc744":4,"\ubb38\uc790\uc5f4\uc740":5,"\ubb38\uc790\uc5f4\uc744":5,"\ubb38\ud654":4,"\ubbf8\ub9ac":1,"\ubc0f":[6,8],"\ubc14\uc778\ub529\ud558\uace0":7,"\ubc14\ud0d5\uc73c\ub85c":3,"\ubc15\uc2a4\uc758":4,"\ubc18\ub4dc\uc2dc":[2,4],"\ubc18\ud658\ud558\uba70":5,"\ubc1b\uc2b5\ub2c8\ub2e4":1,"\ubc1c\uc0dd":7,"\ubc29\ubc95\uc740":6,"\ubc29\ubc95\uc744":9,"\ubc29\uc2dd":[3,4],"\ubc30\uc5f4\uc5d0":4,"\ubc30\uc5f4\uc5d0\uc11c":3,"\ubc84\ud2bc\uc5d0":7,"\ubc84\ud2bc\uc744":7,"\ubc88\ub4e4\ub7ec\ub294":1,"\ubcc0\uacbd":[3,4,6],"\ubcc0\uacbd\ub41c":7,"\ubcc0\uacbd\ud558\uace0":5,"\ubcc0\uacbd\ud558\uae30":8,"\ubcc0\uacbd\ud558\uba74":6,"\ubcc0\uacbd\ud55c":7,"\ubcc0\uacbd\ud560":5,"\ubcc0\uacbd\ud569\ub2c8\ub2e4":[3,6],"\ubcc0\uacbd\ud574\ubcf4\uaca0\uc2b5\ub2c8\ub2e4":4,"\ubcc0\uacbd\ud574\ubd05\ub2c8\ub2e4":4,"\ubcc0\uacbd\ud574\uc57c":4,"\ubcc0\uc218\uc5d0":3,"\ubcf4\uae30":2,"\ubcf4\uc138\uc694":0,"\ubcf4\uc558\uc2b5\ub2c8\ub2e4":6,"\ubd80\uac00":5,"\ube0c\ub77c\uc6b0\uc800":0,"\ube0c\ub77c\uc6b0\uc800\ub294":2,"\ube0c\ub77c\uc6b0\uc800\ub85c":1,"\ube0c\ub77c\uc6b0\uc800\ub97c":7,"\ube0c\ub77c\uc6b0\uc800\uc5d0\uc11c":2,"\ube44\uace0":[3,4],"\ube44\uc6a9":8,"\ube48":3,"\uc0ac\uc6a9\ub41c":3,"\uc0ac\uc6a9\ub429\ub2c8\ub2e4":5,"\uc0ac\uc6a9\ud558\uace0":[1,4],"\uc0ac\uc6a9\ud558\ub294":[4,9],"\uc0ac\uc6a9\ud558\ub3c4\ub85d":6,"\uc0ac\uc6a9\ud558\uba74":0,"\uc0ac\uc6a9\ud558\uba74\uc11c":4,"\uc0ac\uc6a9\ud558\ubbc0\ub85c":6,"\uc0ac\uc6a9\ud558\uc5ec":[1,4,7],"\uc0ac\uc6a9\ud55c":0,"\uc0ac\uc6a9\ud560":7,"\uc0ac\uc6a9\ud569\ub2c8\ub2e4":[4,6],"\uc0ac\uc6a9\ud574":[4,6,9],"\uc0ac\uc6a9\ud574\ubcf4\uc558\uc2b5\ub2c8\ub2e4":4,"\uc0ac\ud56d\uc774":4,"\uc0ad\uc81c":7,"\uc0b4\ud3b4\ubcf4\uc558\ub358":3,"\uc0c1\ub2e8\uc5d0\uc11c":4,"\uc0c1\ud0dc\ub294":6,"\uc0c8\ub85c":6,"\uc0dd\uc131":[2,3],"\uc0dd\uc131\ub418\ub294":2,"\uc0dd\uc131\ub418\uc5c8\ub294\uc9c0":2,"\uc0dd\uc131\ub429\ub2c8\ub2e4":6,"\uc0dd\uc131\ud558\uace0":[6,9],"\uc0dd\uc131\ud558\uae30":8,"\uc0dd\uc131\ud558\ub294":2,"\uc0dd\uc131\ud560":3,"\uc0dd\uc131\ud569\ub2c8\ub2e4":3,"\uc0dd\uc131\ud574\ubd05\ub2c8\ub2e4":[2,3],"\uc0dd\ud65c\ube44":4,"\uc11c\ubc84":8,"\uc11c\ubc84\uac00":6,"\uc11c\ubc84\ub294":6,"\uc11c\ubc84\ub97c":[1,6],"\uc11c\ubc84\uc5d0":2,"\uc11c\ubc84\uc5d0\uc11c":[1,7],"\uc11c\ubc84\uc640":[6,9],"\uc11c\ubc84\uce21":6,"\uc11c\ube44\uc2a4\uc5d0":0,"\uc11c\uc2dd":8,"\uc120\ud0dd":4,"\uc120\ud0dd\ub418\uc5c8\uc744":4,"\uc120\ud0dd\ud558\ub824\uace0":4,"\uc120\ud0dd\ud558\ub824\ub294":4,"\uc120\ud0dd\ud560":4,"\uc124\uc815":[2,4],"\uc124\uc815\ub41c":[4,5,6,7],"\uc124\uc815\uc744":[5,6],"\uc124\uc815\ud558\uc5ec":[4,7],"\uc124\uc815\ud55c":[5,6,7],"\uc124\uc815\ud560":6,"\uc124\uc815\ud569\ub2c8\ub2e4":[4,5,6,7],"\uc124\uc815\ud574":1,"\uc124\uc815\ud574\uc57c\ud569\ub2c8\ub2e4":4,"\uc124\uce58":8,"\uc124\uce58\ud569\ub2c8\ub2e4":1,"\uc138":7,"\uc140":4,"\uc140\uc774":7,"\uc18d\uc131\uc5d0":4,"\uc18d\uc131\uc744":[4,5],"\uc18d\uc131\uc774":4,"\uc218":[0,4,5,6,7],"\uc218\ub3c4":6,"\uc218\uc815":7,"\uc218\uc815\ub418\uc5c8\uc744":7,"\uc218\uc815\ub41c":7,"\uc218\uc815\ud558\ub294":7,"\uc218\uc815\ud558\uba74":2,"\uc218\uc815\ud55c":7,"\uc218\uc815\ud560":4,"\uc21c\uc11c\ub300\ub85c":4,"\uc2a4\ud0c0\uc77c":4,"\uc2a4\ud0c0\uc77c\uc744":4,"\uc2dc":7,"\uc2dc\uac04":8,"\uc2dc\uac04\ud45c":9,"\uc2dd\ube44":[3,4],"\uc2e4\uc2b5\ud558\ub294":1,"\uc2e4\uc81c":6,"\uc2e4\ud589\ub418\uace0":6,"\uc2e4\ud589\ud558\uace0":1,"\uc2e4\ud589\ud558\uae30":8,"\uc2e4\ud589\ud569\ub2c8\ub2e4":6,"\uc2e4\ud589\ud574\ubd05\ub2c8\ub2e4":6,"\uc2e4\ud589\ud588\ub358":6,"\uc2ec\ud654":8,"\uc2f6\ub2e4\uba74":[4,5],"\uc368\uba38\ub9ac":5,"\uc544\ub798":4,"\uc544\ub798\uc5d0":[2,5],"\uc544\ub798\uc640":[1,3,6],"\uc544\uc8fc":6,"\uc548\ud568":4,"\uc54a\uc2b5\ub2c8\ub2e4":5,"\uc54a\uc740":5,"\uc54c\uace0":5,"\uc55e\uc11c":7,"\uc55e\uc5d0\uc11c":3,"\uc55e\uc73c\ub85c":[1,3],"\uc561\uc140\uacfc":0,"\uc5b4\ub5a4":7,"\uc5c5\ub370\uc774\ud2b8\ud569\ub2c8\ub2e4":7,"\uc5d0":[1,4,7],"\uc5d0\ub514\ud130\ub97c":4,"\uc5d8\ub9ac\uba3c\ud2b8":2,"\uc5ec\uae30\uc11c":4,"\uc5ec\ub7ec":4,"\uc5f0\ub3d9":6,"\uc5f0\ub3d9\uc744":6,"\uc5f0\ub3d9\ud558\uae30":8,"\uc5f0\ub3d9\ud558\uc5ec":6,"\uc5f0\uc0b0":5,"\uc5f4\uace0":[2,6],"\uc5f4\uc5b4":[1,2],"\uc601\uc5ed\uc740":5,"\uc601\uc5ed\uc758":5,"\uc608\ub97c":4,"\uc608\uc81c\uc5d0\uc11c\ub294":7,"\uc624\ud508\uc18c\uc2a4":0,"\uc628":7,"\uc635\uc158":[2,6],"\uc635\uc158\ub4e4\uc744":6,"\uc635\uc158\uc5d0":[5,6,7],"\uc635\uc158\uc73c\ub85c":6,"\uc635\uc158\uc744":[2,4,5],"\uc635\uc158\uc758":3,"\uc635\uc158\uc785\ub2c8\ub2e4":5,"\uc640":5,"\uc644\uc131\ud574\ubd05\ub2c8\ub2e4":7,"\uc678":4,"\uc678\ubd80":6,"\uc694\uccad\uacfc":6,"\uc694\uccad\uc774":6,"\uc6d0":5,"\uc704\uc5d0\uc11c":7,"\uc704\uce58\ub97c":5,"\uc704\uce58\uc5d0\uc11c":6,"\uc704\uce58\ud569\ub2c8\ub2e4":5,"\uc704\ud574":[4,6,7],"\uc704\ud574\uc11c\ub294":4,"\uc720\ud29c\ube0c":9,"\uc73c\ub85c":[1,5,6],"\uc744":[1,4,5,6,7],"\uc751\ub2f5\uc774":6,"\uc758":4,"\uc774":[1,4,5,6,7],"\uc774\ub3d9\ud55c":1,"\uc774\ub54c":[2,4],"\uc774\ub984":5,"\uc774\ubc88":[0,7],"\uc774\ubca4\ud2b8":7,"\uc774\ubca4\ud2b8\ub97c":7,"\uc774\uc6a9\ud574":[3,9],"\uc774\uc804\uc5d0":3,"\uc774\uc81c":6,"\uc774\ud574\ud588\uc2b5\ub2c8\ub2e4":9,"\uc774\ud6c4\uc5d0":7,"\uc775\uc219\ud55c":0,"\uc775\uc2a4\ud150\uc158":9,"\uc778\uc2a4\ud134\uc2a4":2,"\uc778\uc2a4\ud134\uc2a4\ub97c":[2,3],"\uc778\ud48b\uacfc\ub294":4,"\uc778\ud48b\uc744":4,"\uc778\ud48b\uc774":4,"\uc77c\ubc18\uc801\uc73c\ub85c":4,"\uc77c\uc5b4\ub09c":6,"\uc77c\uce58\ud574\uc57c":4,"\uc77d\uae30":7,"\uc77d\uc5b4\uc624\ub294":6,"\uc77d\uc5b4\uc62c":7,"\uc785\ub2c8\ub2e4":4,"\uc788\ub294":[4,5,7],"\uc788\ub3c4\ub85d":[4,5,6,7],"\uc788\uc2b5\ub2c8\ub2e4":[0,4,5,6,7],"\uc788\uc5b4\uc57c":4,"\uc788\uc9c0\ub9cc":6,"\uc790\ub3d9\uc73c\ub85c":2,"\uc790\ubc14\uc2a4\ud06c\ub9bd\ud2b8":0,"\uc790\uc138\ud788":5,"\uc791\uc131\ud55c":[3,7],"\uc791\uc131\ud569\ub2c8\ub2e4":3,"\uc791\uc131\ud574":2,"\uc791\uc5c5\uc744":6,"\uc798":6,"\uc7a5\uc5d0\uc11c\ub294":7,"\uc801\uc6a9":4,"\uc801\uc6a9\ud574":0,"\uc801\uc6a9\ud574\ubcf4\uaca0\uc2b5\ub2c8\ub2e4":4,"\uc804\uccb4":5,"\uc810\uc740":4,"\uc810\uc785\ub2c8\ub2e4":4,"\uc811\uc18d\ud55c":2,"\uc811\uc18d\ud569\ub2c8\ub2e4":1,"\uc815\ub9ac":8,"\uc815\ubcf4":[2,6],"\uc815\ubcf4\uac00":5,"\uc815\ubcf4\ub4e4\uc744":5,"\uc815\ubcf4\ub97c":[3,5,7],"\uc815\ubcf4\uc5d0":4,"\uc815\uc0c1\uc801\uc73c\ub85c":6,"\uc81c\uac70":6,"\uc81c\uacf5\ub429\ub2c8\ub2e4":1,"\uc81c\uacf5\ud558\ub294":[4,6],"\uc81c\uacf5\ud569\ub2c8\ub2e4":4,"\uc81c\uc678\ud55c":4,"\uc880":6,"\uc885\ub8cc\ub97c":7,"\uc8fc\uc758\ud560":4,"\uc900\ube44\ub41c":[1,2],"\uc90d\ub2c8\ub2e4":2,"\uc911":4,"\uc911\uc5d0\uc11c":4,"\uc911\uc694\ud55c":4,"\uc911\uc778":7,"\uc9c0\uae08\uae4c\uc9c0":6,"\uc9c0\uae08\uae4c\uc9c0\ub294":4,"\uc9c0\uae08\ubd80\ud130":3,"\uc9c0\uae08\ubd80\ud130\ub294":6,"\uc9c0\uc6b0\uace0":3,"\uc9c0\uc815":2,"\uc9c0\uc815\ud558\uba70":5,"\uc9c0\uc815\ud558\uc9c0":5,"\uc9c0\uc815\ud560":4,"\uc9c0\ucd9c":8,"\uc9c1\uc811":[0,6],"\ucc28\ud2b8":9,"\ucc38\uace0":6,"\ucc38\uace0\ud558\uc5ec":4,"\ucc38\uace0\ud574\uc8fc\uc138\uc694":5,"\ucc98\ub9ac\ub429\ub2c8\ub2e4":6,"\ucc98\ub9ac\ud558\uae30":6,"\ucc98\ub9ac\ud560":[6,7],"\ucc98\ub9ac\ud574\ubcf4\uaca0\uc2b5\ub2c8\ub2e4":6,"\ucc98\ub9ac\ud574\ubd05\ub2c8\ub2e4":7,"\ucc98\ub9ac\ud588\ub358":7,"\uccb4\ud06c\ubc15\uc2a4\ub97c":4,"\uccb4\ud06c\ubc15\uc2a4\uc758":4,"\uccb4\ud06c\ubc15\uc2a4\ucc98\ub7fc":4,"\ucd08\uae09":8,"\ucd08\uae30\uc5d0":5,"\ucd08\uae30\ud654\ud558\ub358":6,"\ucd08\uae30\ud654\ud569\ub2c8\ub2e4":4,"\ucd1d\ud569":5,"\ucd5c\ub313\uac12":5,"\ucd5c\uc19f\uac12":5,"\ucd94\uac00":[4,5,7],"\ucd94\uac00\ub420":3,"\ucd94\uac00\ud558\uac70\ub098":5,"\ucd94\uac00\ud558\uace0":4,"\ucd94\uac00\ud569\ub2c8\ub2e4":7,"\ucd94\uac00\ud574":3,"\ucd94\uac00\ud574\ubd05\ub2c8\ub2e4":[2,4,5,7],"\ucd94\uac00\ud574\uc57c":4,"\ucd94\uac00\ud574\uc90d\ub2c8\ub2e4":4,"\ucd95\ud558\ud569\ub2c8\ub2e4":9,"\ucd9c\ub825":5,"\ucd9c\ub825\ub418\ub294":7,"\ucd9c\ub825\ub418\uba70":5,"\ucd9c\ub825\ub418\uba74":6,"\ucd9c\ub825\ud558\ub294":4,"\ucd9c\ub825\ud560":[5,7],"\ucd9c\ub825\ud574\uc904":5,"\uce74\ub4dc":4,"\uce74\ud14c\uace0\ub9ac":[4,8],"\uce74\ud14c\uace0\ub9ac\ubcc4\ub85c":4,"\uce74\ud14c\uace0\ub9ac\uc5d0\uc11c":4,"\ucee4\uc2a4\ud140":7,"\ucee8\ud14c\uc774\ub108":2,"\uceec\ub7fc":[2,4,5],"\uceec\ub7fc\uc758":[4,5],"\ucef4\ud3ec\ub10c\ud2b8\ub97c":4,"\ucf54\ub4dc":4,"\ucf54\ub4dc\ub294":3,"\ucf54\ub4dc\ub97c":[2,3,6],"\ud06c\ub86c":0,"\ud074\ub860":1,"\ud074\ub9ad":7,"\ud074\ub9ad\ud558\uba74":7,"\ud074\ub9ad\ud574":7,"\ud0a4\ub294":5,"\ud0c0\uc785\uc73c\ub85c":4,"\ud0c0\uc785\uc740":4,"\ud0c0\uc785\uc758":4,"\ud0dc\uadf8":[2,5],"\ud0dc\uadf8\ub97c":[2,7],"\ud0ed\uc5d0\uc11c":6,"\ud130\ubbf8\ub110\uc744":[1,6],"\ud14c\uc774\ube14":5,"\ud14c\uc774\ube14\uc5d0\uc11c":5,"\ud14d\uc2a4\ud2b8\ub85c":4,"\ud1b5\uc2e0\ud558\ub294":9,"\ud1b5\ud574":[5,6],"\ud29c\ud1a0\ub9ac\uc5bc":[4,5,6],"\ud30c\ub77c\ubbf8\ud130\ub85c":2,"\ud30c\uc77c":4,"\ud30c\uc77c\ub85c":7,"\ud30c\uc77c\uc5d0":[3,7],"\ud30c\uc77c\uc744":2,"\ud328\ud0a4\uc9c0\uc640":1,"\ud398\uc774\uc9c0\ub97c":6,"\ud398\uc774\ucf54":[3,4],"\ud3b8\uc758\uc810":[3,4],"\ud3b8\uc9d1":[7,8],"\ud3b8\uc9d1\uae30":0,"\ud3b8\uc9d1\ud560":0,"\ud3b8\ud558\uac8c":6,"\ud3c9\uade0":5,"\ud3ec\ub9e4\ud130":4,"\ud3ec\ub9f7\uc744":4,"\ud3ec\ud568\ud558\ub294":5,"\ud3f4\ub354":6,"\ud3f4\ub354\ub85c":1,"\ud3f4\ub354\uc758":3,"\ud45c\ud604\ud558\uace0":0,"\ud504\ub85c\uc81d\ud2b8":[3,6],"\ud504\ub85c\uc81d\ud2b8\ub97c":1,"\ud53c\ucee4\uc758":4,"\ud544\uc694\ub85c":4,"\ud558\ub098\uc640":4,"\ud558\ub294":4,"\ud558\ub2e8\uc5d0":5,"\ud558\uba74":4,"\ud558\ubbc0\ub85c":4,"\ud55c":4,"\ud560":4,"\ud568\uc218\ub294":5,"\ud568\uc218\ub97c":[5,7],"\ud568\uc218\ud615":5,"\ud569\uacc4":5,"\ud569\ub2c8\ub2e4":[2,4],"\ud574\ub2f9":[5,6],"\ud574\ub2f9\ud558\ub294":4,"\ud578\ub4e4\ub7ec":7,"\ud578\uc988\uc628":0,"\ud589":7,"\ud589\uc5d0":5,"\ud589\uc758":[5,6],"\ud5e4\ub354":5,"\ud604\uae08":4,"\ud615\uc2dd\uc744":[4,5],"\ud615\ud0dc\ub85c":[0,4],"\ud638\ucd9c\ub418\ub294":7,"\ud638\ucd9c\ub429\ub2c8\ub2e4":6,"\ud638\ucd9c\ud558\uac8c":7,"\ud638\ucd9c\ud558\ub294":[2,7],"\ud638\ucd9c\ud558\uba74":7,"\ud638\ucd9c\ud558\uc5ec":6,"\ud638\ucd9c\ud560":[6,7],"\ud638\ucd9c\ud569\ub2c8\ub2e4":[6,7],"\ud638\ucd9c\ud574":6,"\ud654\uba74\uc5d0":5,"\ud655\uc778\ud560":[6,7],"\ud655\uc778\ud569\ub2c8\ub2e4":[1,2],"\ud65c\uc131\ud654\ud558\uace0":6,"\ud65c\uc131\ud654\ud558\uae30":8,"\ud65c\uc131\ud654\ud558\ub294":6,"\ud65c\uc131\ud654\ud558\uba70":6,"\ud65c\uc131\ud654\ud574\ubd05\ub2c8\ub2e4":4,"\ud68c\uc0ac":[3,4],"\ud6c4":[1,7],"api\ub85c":7,"api\ub97c":[2,6,7],"api\uc758":6,"calendar\ub85c":9,"chart\ub97c":9,"const":[2,3,4,5,6,7],"datasource\ub85c":6,"datasource\ub97c":[6,7,9],"datasource\uc758":7,"fe\uac1c\ubc1c\ub7a9\uc5d0\uc11c":0,"function":7,"grid\ub294":[0,1],"grid\ub97c":[0,1,9],"import":[2,3,4],"method\ub97c":6,"new":[2,3,5,6],"return":5,"url\uacfc":6,"url\uc740":6,"url\uc744":7,Lies:2,account:[1,6],addeventlisten:7,amount:[3,4,5],api:2,appendrow:2,applic:[6,7],artist:2,beauti:2,birdi:2,bodi:2,book:[1,6],bottom:5,button:7,category1:[3,4],category2:[3,4],checkbox:4,checkedonli:7,click:7,clone:1,coldplai:2,column:[2,3],columncont:5,columndata:[3,4,5],columnnam:7,com:1,consol:7,contenttyp:[6,7],creat:7,crud:6,css:[2,3,4],data:[2,3,5,6,7],datasourc:7,date:[3,4],datepick:4,delet:7,dev:1,dist:[2,3,4],div:2,document:[2,3,7],dream:2,editor:[4,5,9],express:6,fals:7,finishedit:7,foreach:2,format:4,formatt:4,from:[2,3],full:2,genr:2,get:[6,7],getelementbyid:[2,3,7],getfocusedcel:7,git:1,github:[0,1],grid:[2,3,5,6,7,8],hand:[1,6],head:2,header:[2,3,4,5],height:5,html:[5,7],http:[1,6,7],index:[2,3,7],instal:1,javascript:8,json:[6,7],lab:[1,6],listitem:4,listitemtext:4,localhost:[1,6,7],log:7,method:[6,7],name:[2,3,4,5],nhn:1,node:0,npm:[1,6],option:[2,4],pars:7,payment:[3,4],picker:4,pop:2,posit:5,put:7,read:6,readdata:[6,7],releas:2,request:7,respons:7,responseobj:7,result:7,rock:2,row:2,rowdata:[2,3,4,5,6],rowkei:7,run:[1,6],select:4,serv:1,server:1,sheeran:2,src:[2,3,7],sum:5,sync:7,syncserv:7,templat:5,text:[4,5],toast:[0,4,9],toastui:[1,6],top:5,tui:[1,2,3,4],type:4,updat:7,updatedata:7,url:[6,7],valu:[4,5],valuemap:5,webpack:1,xhr:7,yyyi:4},titles:["1. \uac1c\uc694","2. TOAST UI Grid \uc124\uce58 \ubc0f \uc11c\ubc84 \uc2e4\ud589\ud558\uae30","3. \uadf8\ub9ac\ub4dc \uc0dd\uc131\ud558\uae30","4. \uac00\uacc4\ubd80 \ub808\uc774\uc544\uc6c3 \ub9cc\ub4e4\uae30","5. \ub2e4\uc591\ud55c \ud3b8\uc9d1 \ubaa8\ub4dc \ud65c\uc131\ud654\ud558\uae30","6. \uc9c0\ucd9c \ube44\uc6a9 \uc11c\uc2dd \ubcc0\uacbd\ud558\uae30","7. \uc11c\ubc84 \uc5f0\ub3d9\ud558\uae30 (\uae30\ubcf8)","8. \uc11c\ubc84 \uc5f0\ub3d9\ud558\uae30 (\uc2ec\ud654)","TOAST UI Grid\ub85c \uac00\uacc4\ubd80 \ub9cc\ub4e4\uae30","9. \uc815\ub9ac"],titleterms:{"\uac00\uacc4\ubd80":[3,8],"\uac1c\ubc1c":1,"\uac1c\uc694":0,"\uacb0\uacfc":[2,3,4,5,6,7],"\uadf8\ub9ac\ub4dc":2,"\uae30\ubcf8":[3,6],"\ub0b4\uc6a9":[0,9],"\ub2e4\uc591\ud55c":4,"\ub2e4\uc74c":9,"\ub2e8\uacc4":9,"\ub370\uc774\ud130":3,"\ub370\uc774\ud2b8":4,"\ub808\uc774\uc544\uc6c3":3,"\ub9cc\ub4e4\uae30":[3,8],"\ubaa8\ub4dc":4,"\ubc0f":1,"\ubc15\uc2a4":4,"\ubc84\ud2bc":7,"\ubcc0\uacbd\ud558\uae30":5,"\ube44\uc6a9":5,"\uc0ac\uc6a9\ud558\uae30":[4,6],"\uc0dd\uc131\ud558\uae30":2,"\uc11c\ubc84":[1,6,7],"\uc11c\uc2dd":5,"\uc124\uc815\ud558\uae30":[3,5,6],"\uc124\uce58":1,"\uc140\ub809\ud2b8":4,"\uc18c\uc2a4":0,"\uc2e4\ud589":1,"\uc2e4\ud589\ud558\uae30":1,"\uc2ec\ud654":7,"\uc5d0\ub514\ud130":4,"\uc5f0\ub3d9\ud558\uae30":[6,7],"\uc635\uc158":[4,5],"\uc694\uccad":6,"\uc694\uccad\ud558\uae30":7,"\uc751\ub2f5":[6,7],"\uc778\ud48b":4,"\uc790\ubc14\uc2a4\ud06c\ub9bd\ud2b8":2,"\uc791\uc131":2,"\uc815\ub9ac":9,"\uc900\ube44\ubb3c":0,"\uc9c0\ucd9c":5,"\ucc98\ub9ac\ud558\uae30":7,"\uccb4\ud06c\ubc15\uc2a4":4,"\ucd08\uae30":2,"\ucd94\uac00\ud558\uae30":7,"\uceec\ub7fc":3,"\ucf54\ub4dc":[0,2],"\ud14c\uc2a4\ud2b8\uc6a9":6,"\ud14d\uc2a4\ud2b8":4,"\ud3b8\uc9d1":4,"\ud504\ub85c\uc81d\ud2b8":1,"\ud53c\ucee4":4,"\ud559\uc2b5\ud55c":9,"\ud559\uc2b5\ud560":0,"\ud654\uba74":[2,3,4,5,6,7],"\ud655\uc778\ud558\uae30":6,"\ud65c\uc131\ud654\ud558\uae30":4,"grid\ub85c":8,api:[6,7],datasourc:6,formatt:5,grid:1,html:2,summari:5,toast:[1,8],udat:7}})

diff --git a/08.html b/08.html
@@ -168,6 +168,7 @@
 <p>먼저, 데이터를 수정한 후 호출하는 서버 API 정보를 추가합니다.
 읽기(<code class="docutils literal notranslate"><span class="pre">readData</span></code>) 동작을 처리했던 것과 같이 데이터값이 수정되었을 때 호출되는 API URL을 설정합니다.</p>
 <div class="highlight-javascript notranslate"><div class="highlight"><pre><span></span><span class="kr">const</span> <span class="nx">dataSource</span> <span class="o">=</span> <span class="p">{</span>
+  <span class="nx">contentType</span><span class="o">:</span> <span class="s1">&#39;application/json&#39;</span><span class="p">,</span>
   <span class="nx">api</span><span class="o">:</span> <span class="p">{</span>
     <span class="nx">readData</span><span class="o">:</span> <span class="p">{</span>
       <span class="nx">url</span><span class="o">:</span> <span class="s1">&#39;http://localhost:3000/api/readData&#39;</span><span class="p">,</span>

diff --git a/05.html b/05.html
@@ -281,7 +281,7 @@
 
 <span class="kr">const</span> <span class="nx">rowData</span> <span class="o">=</span> <span class="p">[</span>
   <span class="p">{</span>
-    <span class="nx">date</span><span class="o">:</span> <span class="s1">&#39;2019-11-27&#39;</span><span class="p">,</span>
+    <span class="nx">date</span><span class="o">:</span> <span class="s1">&#39;2020-11-16&#39;</span><span class="p">,</span>
     <span class="nx">category1</span><span class="o">:</span> <span class="s1">&#39;1&#39;</span><span class="p">,</span> <span class="c1">// &#39;식비&#39; -&gt; &#39;1&#39; 변경</span>
     <span class="nx">category2</span><span class="o">:</span> <span class="s1">&#39;회사 편의점&#39;</span><span class="p">,</span>
     <span class="nx">payment</span><span class="o">:</span> <span class="s1">&#39;3&#39;</span><span class="p">,</span> <span class="c1">// &#39;페이코&#39; -&gt; &#39;3&#39; 변경</span>

diff --git a/04.html b/04.html
@@ -207,7 +207,7 @@
 
 <span class="kr">const</span> <span class="nx">rowData</span> <span class="o">=</span> <span class="p">[</span>
   <span class="p">{</span>
-    <span class="nx">date</span><span class="o">:</span> <span class="s1">&#39;2019-11-27&#39;</span><span class="p">,</span>
+    <span class="nx">date</span><span class="o">:</span> <span class="s1">&#39;2020-11-16&#39;</span><span class="p">,</span>
     <span class="nx">category1</span><span class="o">:</span> <span class="s1">&#39;식비&#39;</span><span class="p">,</span>
     <span class="nx">category2</span><span class="o">:</span> <span class="s1">&#39;회사 편의점&#39;</span><span class="p">,</span>
     <span class="nx">payment</span><span class="o">:</span> <span class="s1">&#39;페이코&#39;</span><span class="p">,</span>

diff --git a/07.html b/07.html
@@ -194,6 +194,7 @@ API 서버 URL은 <code class="docutils literal notranslate"><span class="pre">h
 </li>
 </ul>
 <div class="highlight-javascript notranslate"><div class="highlight"><pre><span></span><span class="kr">const</span> <span class="nx">dataSource</span> <span class="o">=</span> <span class="p">{</span>
+  <span class="nx">contentType</span><span class="o">:</span> <span class="s1">&#39;application/json&#39;</span><span class="p">,</span>
   <span class="nx">api</span><span class="o">:</span> <span class="p">{</span>
     <span class="nx">readData</span><span class="o">:</span> <span class="p">{</span>
       <span class="nx">url</span><span class="o">:</span> <span class="s1">&#39;http://localhost:3000/api/readData&#39;</span><span class="p">,</span>
